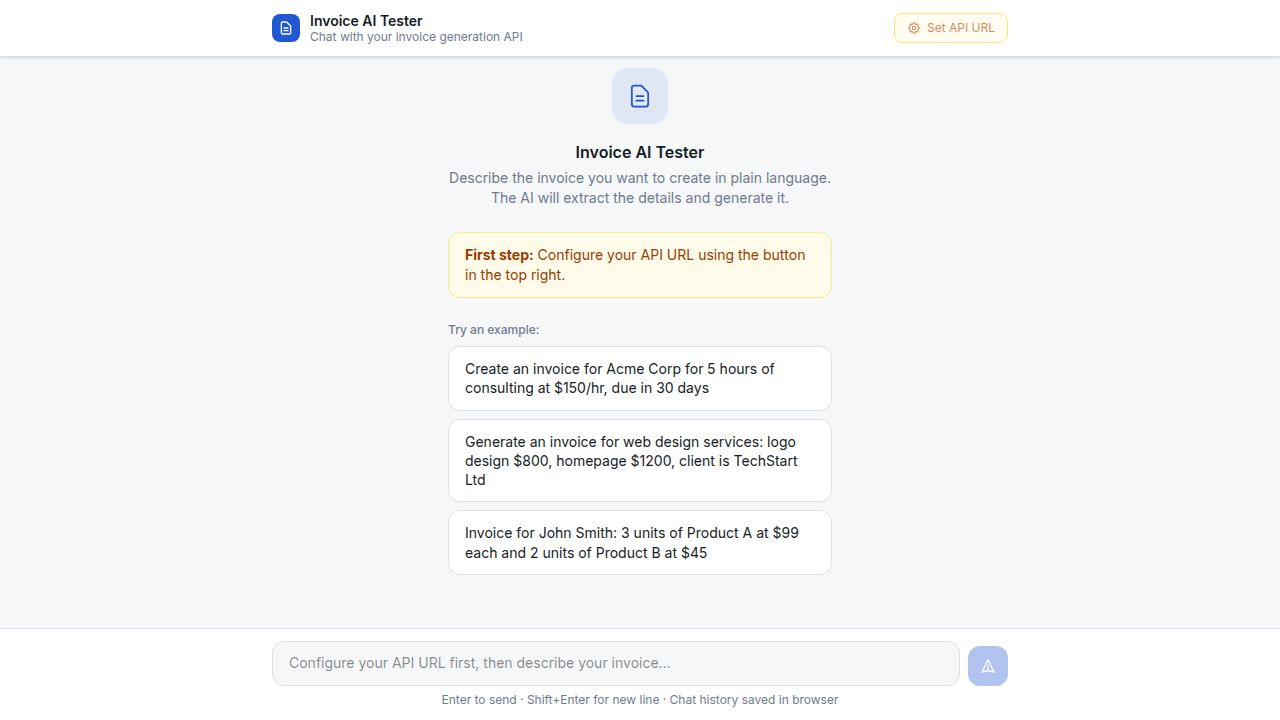
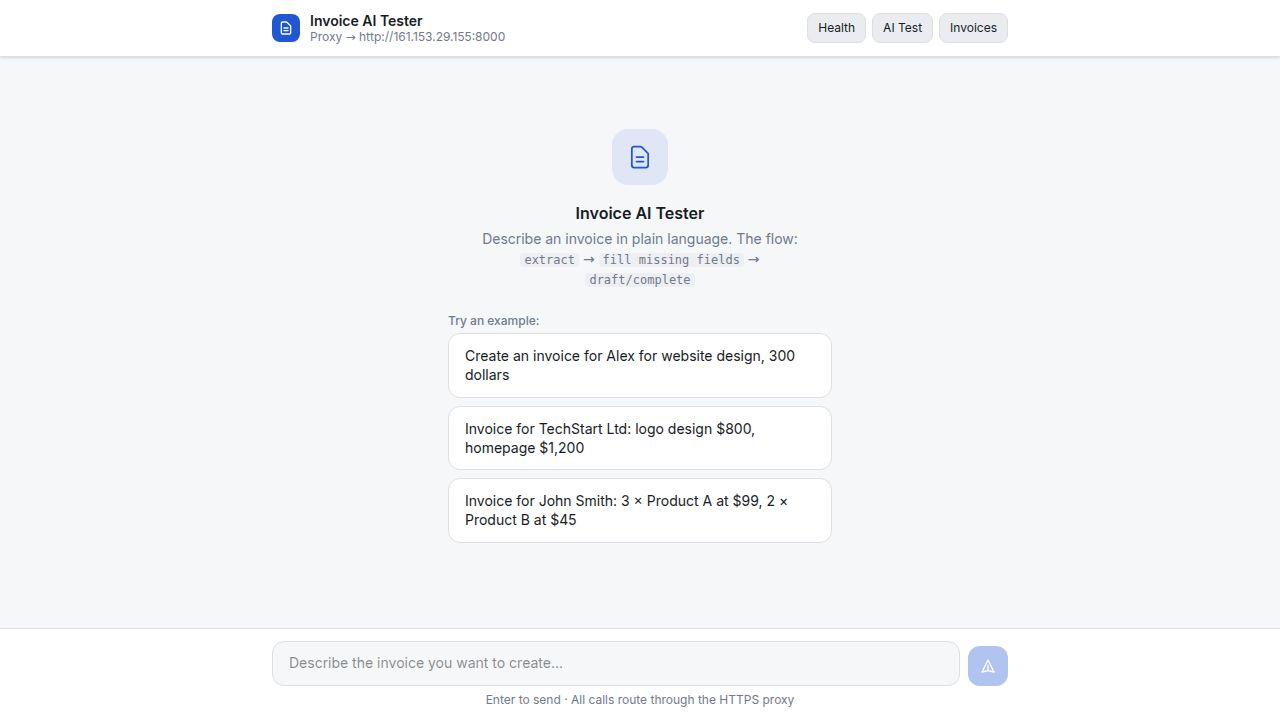
Add relaxing notification sounds for various chat interactions
Integrate Web Audio API for sound effects on message send, receive, success, error, and missing fields.

Replit-Commit-Author: Agent
Replit-Commit-Session-Id: fd9f5ea9-cf51-4790-878f-60e0e7e4e6f7
Replit-Commit-Checkpoint-Type: full_checkpoint
Replit-Commit-Event-Id: 4ce030a6-e09d-453e-8caa-da761c890d6d
Replit-Commit-Screenshot-Url: https://storage.googleapis.com/screenshot-production-us-central1/e0402063-87b0-430e-a8d6-9b41ddf18561/fd9f5ea9-cf51-4790-878f-60e0e7e4e6f7/WEIJ53j
Replit-Helium-Checkpoint-Created: true

diff --git a/artifacts/invoice-chat/src/lib/sounds.ts b/artifacts/invoice-chat/src/lib/sounds.ts
@@ -1,0 +1,164 @@
+/**
+ * Sound effects using the Web Audio API.
+ * All sounds are generated entirely in code — no audio files needed.
+ */
+
+let ctx: AudioContext | null = null;
+
+function getCtx(): AudioContext {
+  if (!ctx || ctx.state === "closed") {
+    ctx = new AudioContext();
+  }
+  return ctx;
+}
+
+function gain(ac: AudioContext, value: number, at?: number): GainNode {
+  const g = ac.createGain();
+  g.gain.setValueAtTime(value, at ?? ac.currentTime);
+  return g;
+}
+
+function sine(ac: AudioContext, freq: number, start: number, duration: number, volume = 0.18): void {
+  const osc = ac.createOscillator();
+  const g = gain(ac, 0, start);
+  osc.type = "sine";
+  osc.frequency.setValueAtTime(freq, start);
+  // Tiny attack + fast decay
+  g.gain.linearRampToValueAtTime(volume, start + 0.015);
+  g.gain.exponentialRampToValueAtTime(0.0001, start + duration);
+  osc.connect(g).connect(ac.destination);
+  osc.start(start);
+  osc.stop(start + duration + 0.01);
+}
+
+function triangle(ac: AudioContext, freq: number, start: number, duration: number, volume = 0.12): void {
+  const osc = ac.createOscillator();
+  const g = gain(ac, 0, start);
+  osc.type = "triangle";
+  osc.frequency.setValueAtTime(freq, start);
+  g.gain.linearRampToValueAtTime(volume, start + 0.02);
+  g.gain.exponentialRampToValueAtTime(0.0001, start + duration);
+  osc.connect(g).connect(ac.destination);
+  osc.start(start);
+  osc.stop(start + duration + 0.01);
+}
+
+function sawtooth(ac: AudioContext, freq: number, start: number, duration: number, volume = 0.06): void {
+  const osc = ac.createOscillator();
+  const g = gain(ac, 0, start);
+  osc.type = "sawtooth";
+  osc.frequency.setValueAtTime(freq, start);
+  g.gain.linearRampToValueAtTime(volume, start + 0.01);
+  g.gain.exponentialRampToValueAtTime(0.0001, start + duration);
+  osc.connect(g).connect(ac.destination);
+  osc.start(start);
+  osc.stop(start + duration + 0.01);
+}
+
+// ── Public sounds ─────────────────────────────────────────────────────────────
+
+/** Soft "whoosh" pop — message sent */
+export function playSend(): void {
+  try {
+    const ac = getCtx();
+    const now = ac.currentTime;
+    // Quick upward frequency sweep — feels like a paper airplane launching
+    const osc = ac.createOscillator();
+    const g = gain(ac, 0, now);
+    osc.type = "sine";
+    osc.frequency.setValueAtTime(320, now);
+    osc.frequency.exponentialRampToValueAtTime(680, now + 0.12);
+    g.gain.linearRampToValueAtTime(0.14, now + 0.02);
+    g.gain.exponentialRampToValueAtTime(0.0001, now + 0.22);
+    osc.connect(g).connect(ac.destination);
+    osc.start(now);
+    osc.stop(now + 0.23);
+
+    // Subtle body — makes it feel solid
+    triangle(ac, 480, now, 0.14, 0.07);
+  } catch {}
+}
+
+/** Gentle two-note chime — message received */
+export function playReceive(): void {
+  try {
+    const ac = getCtx();
+    const now = ac.currentTime;
+    // Perfect fifth: C5 (523 Hz) → G5 (784 Hz), soft and pleasing
+    sine(ac, 523, now, 0.35, 0.13);
+    sine(ac, 784, now + 0.13, 0.38, 0.11);
+    // Soft sub-harmonic body
+    triangle(ac, 262, now, 0.28, 0.05);
+  } catch {}
+}
+
+/** Ascending arpeggio — invoice created 🎉 */
+export function playSuccess(): void {
+  try {
+    const ac = getCtx();
+    const now = ac.currentTime;
+    // C5 – E5 – G5 – C6 mini arpeggio
+    const notes = [523, 659, 784, 1047];
+    const step = 0.1;
+    notes.forEach((freq, i) => {
+      sine(ac, freq, now + i * step, 0.45 - i * 0.04, 0.16 - i * 0.015);
+      // Add a triangle harmonic for richness
+      triangle(ac, freq * 2, now + i * step, 0.2, 0.04);
+    });
+    // Final shimmer
+    sine(ac, 1397, now + notes.length * step + 0.05, 0.5, 0.06);
+  } catch {}
+}
+
+/** Soft "hmm" buzz — error / unavailable */
+export function playError(): void {
+  try {
+    const ac = getCtx();
+    const now = ac.currentTime;
+    // Descending two-note — E3 → B2, muted and honest
+    sine(ac, 330, now, 0.22, 0.12);
+    sine(ac, 247, now + 0.18, 0.32, 0.10);
+    // Slight "buzzy" texture to signal problem
+    sawtooth(ac, 165, now + 0.02, 0.18, 0.04);
+  } catch {}
+}
+
+/** Gentle "ding-dong" — missing fields, needs attention */
+export function playMissingFields(): void {
+  try {
+    const ac = getCtx();
+    const now = ac.currentTime;
+    // A4 → D5 — calm but attentive
+    sine(ac, 440, now, 0.30, 0.12);
+    sine(ac, 587, now + 0.18, 0.35, 0.10);
+    triangle(ac, 220, now, 0.25, 0.04);
+  } catch {}
+}
+
+/** Soft "pop-confirm" — form submitted / action triggered */
+export function playConfirm(): void {
+  try {
+    const ac = getCtx();
+    const now = ac.currentTime;
+    // Two quick high-pitched pops — snappy and satisfying
+    sine(ac, 880, now, 0.12, 0.11);
+    sine(ac, 1100, now + 0.08, 0.14, 0.09);
+    triangle(ac, 440, now, 0.1, 0.04);
+  } catch {}
+}
+
+/** Soft single ping — quick action result arrived */
+export function playPing(): void {
+  try {
+    const ac = getCtx();
+    const now = ac.currentTime;
+    // Single pure tone — G5 — clean and minimal
+    sine(ac, 784, now, 0.28, 0.11);
+    triangle(ac, 392, now + 0.01, 0.2, 0.04);
+  } catch {}
+}
+
+/** Unlock AudioContext on first user gesture (required by browsers) */
+export function unlockAudio(): void {
+  try { getCtx(); } catch {}
+}

diff --git a/artifacts/invoice-chat/src/App.tsx b/artifacts/invoice-chat/src/App.tsx
@@ -1,4 +1,14 @@
 import { useState, useRef, useEffect, useCallback } from "react";
+import {
+  unlockAudio,
+  playSend,
+  playReceive,
+  playSuccess,
+  playError,
+  playMissingFields,
+  playConfirm,
+  playPing,
+} from "./lib/sounds";
 
 // ─── Constants ───────────────────────────────────────────────────────────────
 
@@ -321,6 +331,17 @@ export default function App() {
   const chatEndRef = useRef<HTMLDivElement>(null);
   const textareaRef = useRef<HTMLTextAreaElement>(null);
 
+  // Unlock AudioContext on first interaction (browser requirement)
+  useEffect(() => {
+    const unlock = () => { unlockAudio(); };
+    window.addEventListener("pointerdown", unlock, { once: true });
+    window.addEventListener("keydown", unlock, { once: true });
+    return () => {
+      window.removeEventListener("pointerdown", unlock);
+      window.removeEventListener("keydown", unlock);
+    };
+  }, []);
+
   useEffect(() => {
     chatEndRef.current?.scrollIntoView({ behavior: "smooth" });
   }, [messages, loading, pendingForm]);
@@ -342,6 +363,7 @@ export default function App() {
     const { data, ok } = await apiPost<CompleteResponse>("/complete", { draft });
 
     if (!ok || (data.status && data.status !== "created" && !data.invoice_id)) {
+      playError();
       addMsg({
         role: "error",
         text: `Draft complete failed: ${String((data as Record<string, unknown>).message ?? (data as Record<string, unknown>).detail ?? "Unexpected response")}`,
@@ -350,6 +372,7 @@ export default function App() {
       return;
     }
 
+    playSuccess();
     addMsg({
       role: "assistant",
       text: `Invoice created — ${data.invoice_number ?? `#${data.invoice_id}`}`,
@@ -361,6 +384,7 @@ export default function App() {
 
   const handleFormSubmit = async () => {
     if (!pendingForm || formSubmitting) return;
+    playConfirm();
     setFormSubmitting(true);
 
     // Merge form values into draft using dot-path setter
@@ -393,6 +417,7 @@ export default function App() {
     if (!text || loading || pendingForm !== null) return;
     if (!preset) setInput("");
 
+    playSend();
     addMsg({ role: "user", text });
     setLoading(true);
     setLoadingLabel("Extracting invoice details…");
@@ -401,6 +426,7 @@ export default function App() {
       const { data: extractData, ok } = await apiPost<ExtractResponse>("/extract", { message: text });
 
       if (!ok) {
+        playError();
         addMsg({
           role: "error",
           text: `Extract request failed: ${String(extractData.message ?? "Server error")}`,
@@ -413,6 +439,7 @@ export default function App() {
 
       // ── ai_parse_error ──
       if (status === "ai_parse_error") {
+        playError();
         addMsg({
           role: "error",
           text: extractData.message ?? "Could not parse invoice details. Please try rephrasing.",
@@ -423,6 +450,7 @@ export default function App() {
 
       // ── llm_unavailable ──
       if (status === "llm_unavailable") {
+        playError();
         addMsg({
           role: "error",
           text: extractData.message ?? "AI assistant is temporarily unavailable. Please try again later.",
@@ -437,6 +465,7 @@ export default function App() {
         const fields = extractData.missing_fields ?? [];
         const formMsgId = uid();
 
+        playMissingFields();
         addMsg({
           id: formMsgId,
           role: "assistant",
@@ -458,6 +487,7 @@ export default function App() {
       if (status === "ready") {
         const draft = extractData.draft;
         if (!draft) {
+          playError();
           addMsg({
             role: "error",
             text: "Extract returned ready but no draft was included.",
@@ -466,6 +496,7 @@ export default function App() {
           return;
         }
 
+        playReceive();
         addMsg({
           role: "assistant",
           text: "All details extracted. Creating your invoice…",
@@ -477,6 +508,7 @@ export default function App() {
       }
 
       // ── unknown status fallback ──
+      playReceive();
       addMsg({
         role: "assistant",
         text: `Received status "${status ?? "unknown"}" from the API.`,
@@ -484,6 +516,7 @@ export default function App() {
       });
 
     } catch (err) {
+      playError();
       addMsg({ role: "error", text: `Network error: ${err instanceof Error ? err.message : String(err)}` });
     } finally {
       setLoading(false);
@@ -500,8 +533,10 @@ export default function App() {
     setLoadingLabel(`${label}…`);
     try {
       const { data } = await fn();
+      playPing();
       addMsg({ role: "assistant", text: `Response — ${label}`, payload: { kind: "generic", raw: data }, showRaw: true });
     } catch (err) {
+      playError();
       addMsg({ role: "error", text: `${label} failed: ${err instanceof Error ? err.message : String(err)}` });
     } finally {
       setLoading(false);